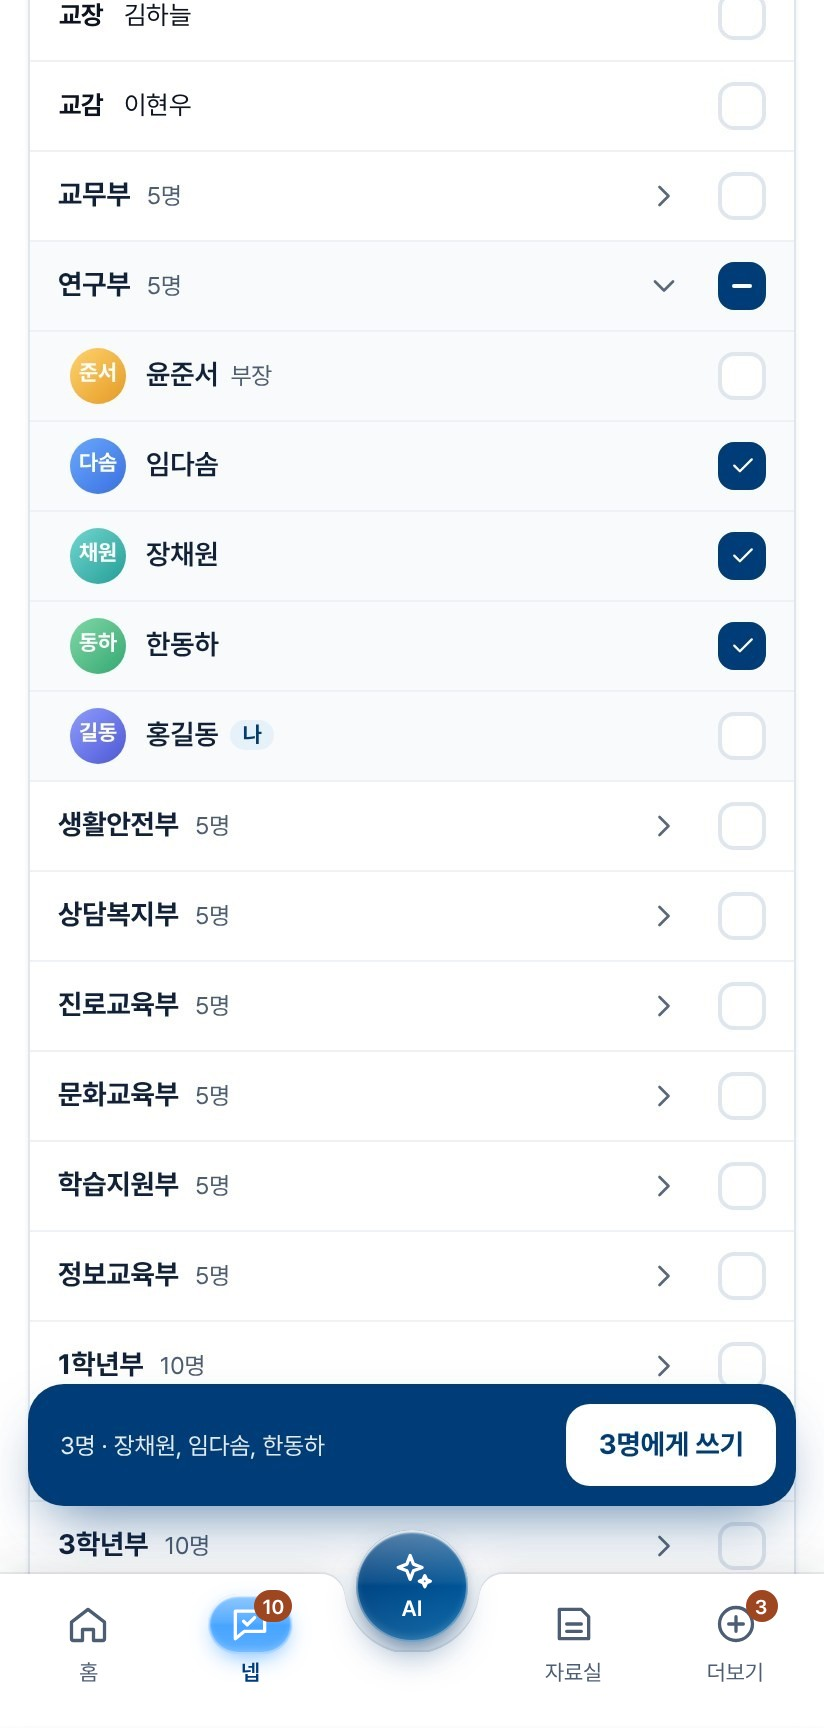
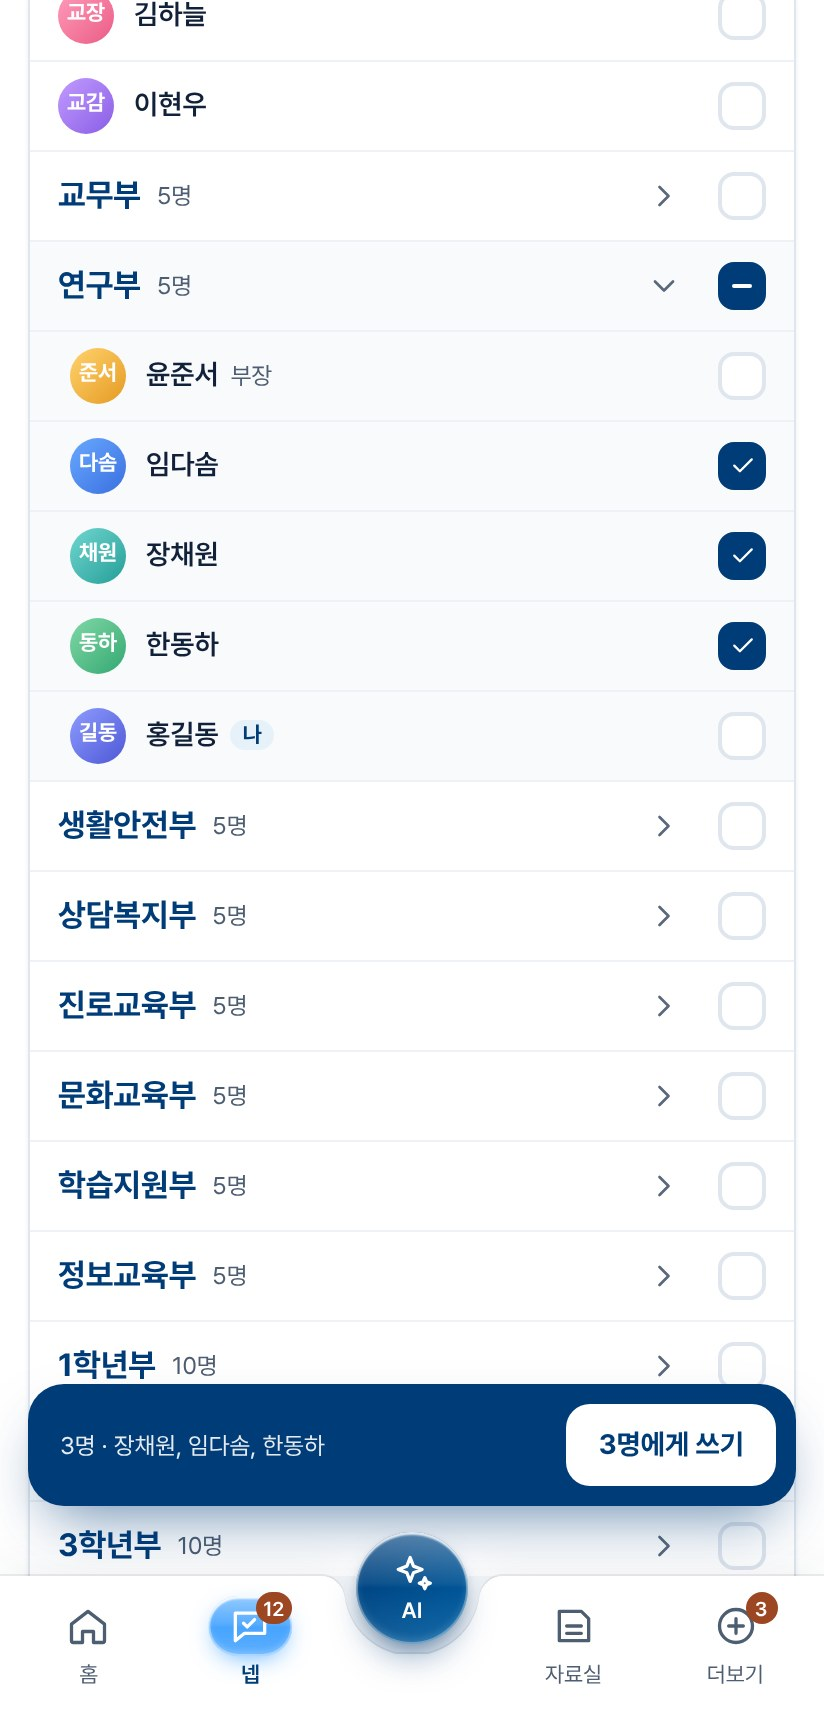
진도 학급별 보기는 내 과목만(10/29), 넵 조직도 묶음 이름 파란 글씨(10/28) 화면 다시
Claude-Session: https://claude.ai/code/session_01PnRkvZMXyWQ3PDuECRmpn5

diff --git a/intro-scenes.js b/intro-scenes.js
@@ -731,11 +731,11 @@
       { t: '<span class="q">「한 달」</span>: 이달 지난 수업 <b>45칸 중 40칸</b>, 「🔥 2주 연속」', s: 1, r: R("pg-month", "summary") },
       { t: '반마다 도장판: 적음 ✓ · 아직 점선 · 한 주 다 채우면 ⭐', s: 2, r: R("pg-month-2", "row") },
       { t: '<b>점선을 누르면</b> 그 반·그 주가 열려 바로 적기', s: 3, r: R("pg-month-pick", "slot") },
-      { t: '<span class="q">「주별」</span>은 한 주씩, <b>학급별 보기</b>는 그 반 모든 과목', s: 4, r: [16, 258, 380, 340] },
+      { t: '<span class="q">「주별」</span>은 한 주씩, <b>학급별 보기</b>는 그 반의 내 과목', s: 4, r: [16, 258, 380, 340] },
       { t: '<span class="aib">AI로도</span> 「오늘 2-3반 5단원 했어」 → <span class="k">진도표에 적기</span>', s: 5, r: R("ai-progress", "card") }
     ],
     screens: ["pg-today", "pg-month", "pg-month-2", "pg-month-pick", "pg-week", "ai-progress"],
-    notes: "진도표는 한 줄이면 됩니다. 칸은 원래 시간표가 아니라 그날 실제로 하는 수업(교체 반영)이고, 하루치를 한 번에 저장합니다. <b>한 달</b> 보기는 반마다 진도를 도장판처럼 보여 줍니다 — 적은 수업은 도장, 빠진 수업은 점선이라 한눈에 보이고, 점선을 누르면 그 주가 열려 바로 적습니다. 모든 반을 다 적은 주가 이어지면 「2주 연속」이 붙습니다. <b>주별</b> 보기는 한 주씩 넘기며 반마다 마지막 진도를, <b>학급별 보기</b>는 그 반의 모든 과목 기록을 보여 줍니다. 진도 지도는 본인 기록만 봅니다. AI에게 「오늘 2-2반이랑 2-3반 5단원 했어」라고 해도 그날 시간표에서 교시를 찾아 카드로 만들어 줍니다."
+    notes: "진도표는 한 줄이면 됩니다. 칸은 원래 시간표가 아니라 그날 실제로 하는 수업(교체 반영)이고, 하루치를 한 번에 저장합니다. <b>한 달</b> 보기는 반마다 진도를 도장판처럼 보여 줍니다 — 적은 수업은 도장, 빠진 수업은 점선이라 한눈에 보이고, 점선을 누르면 그 주가 열려 바로 적습니다. 모든 반을 다 적은 주가 이어지면 「2주 연속」이 붙습니다. <b>주별</b> 보기는 한 주씩 넘기며 반마다 마지막 진도를, <b>학급별 보기</b>는 그 반의 내 과목 기록을 보여 줍니다(다른 과목은 보이지 않음). 진도 지도는 본인 기록만 봅니다. AI에게 「오늘 2-2반이랑 2-3반 5단원 했어」라고 해도 그날 시간표에서 교시를 찾아 카드로 만들어 줍니다."
   });
 
   show({
